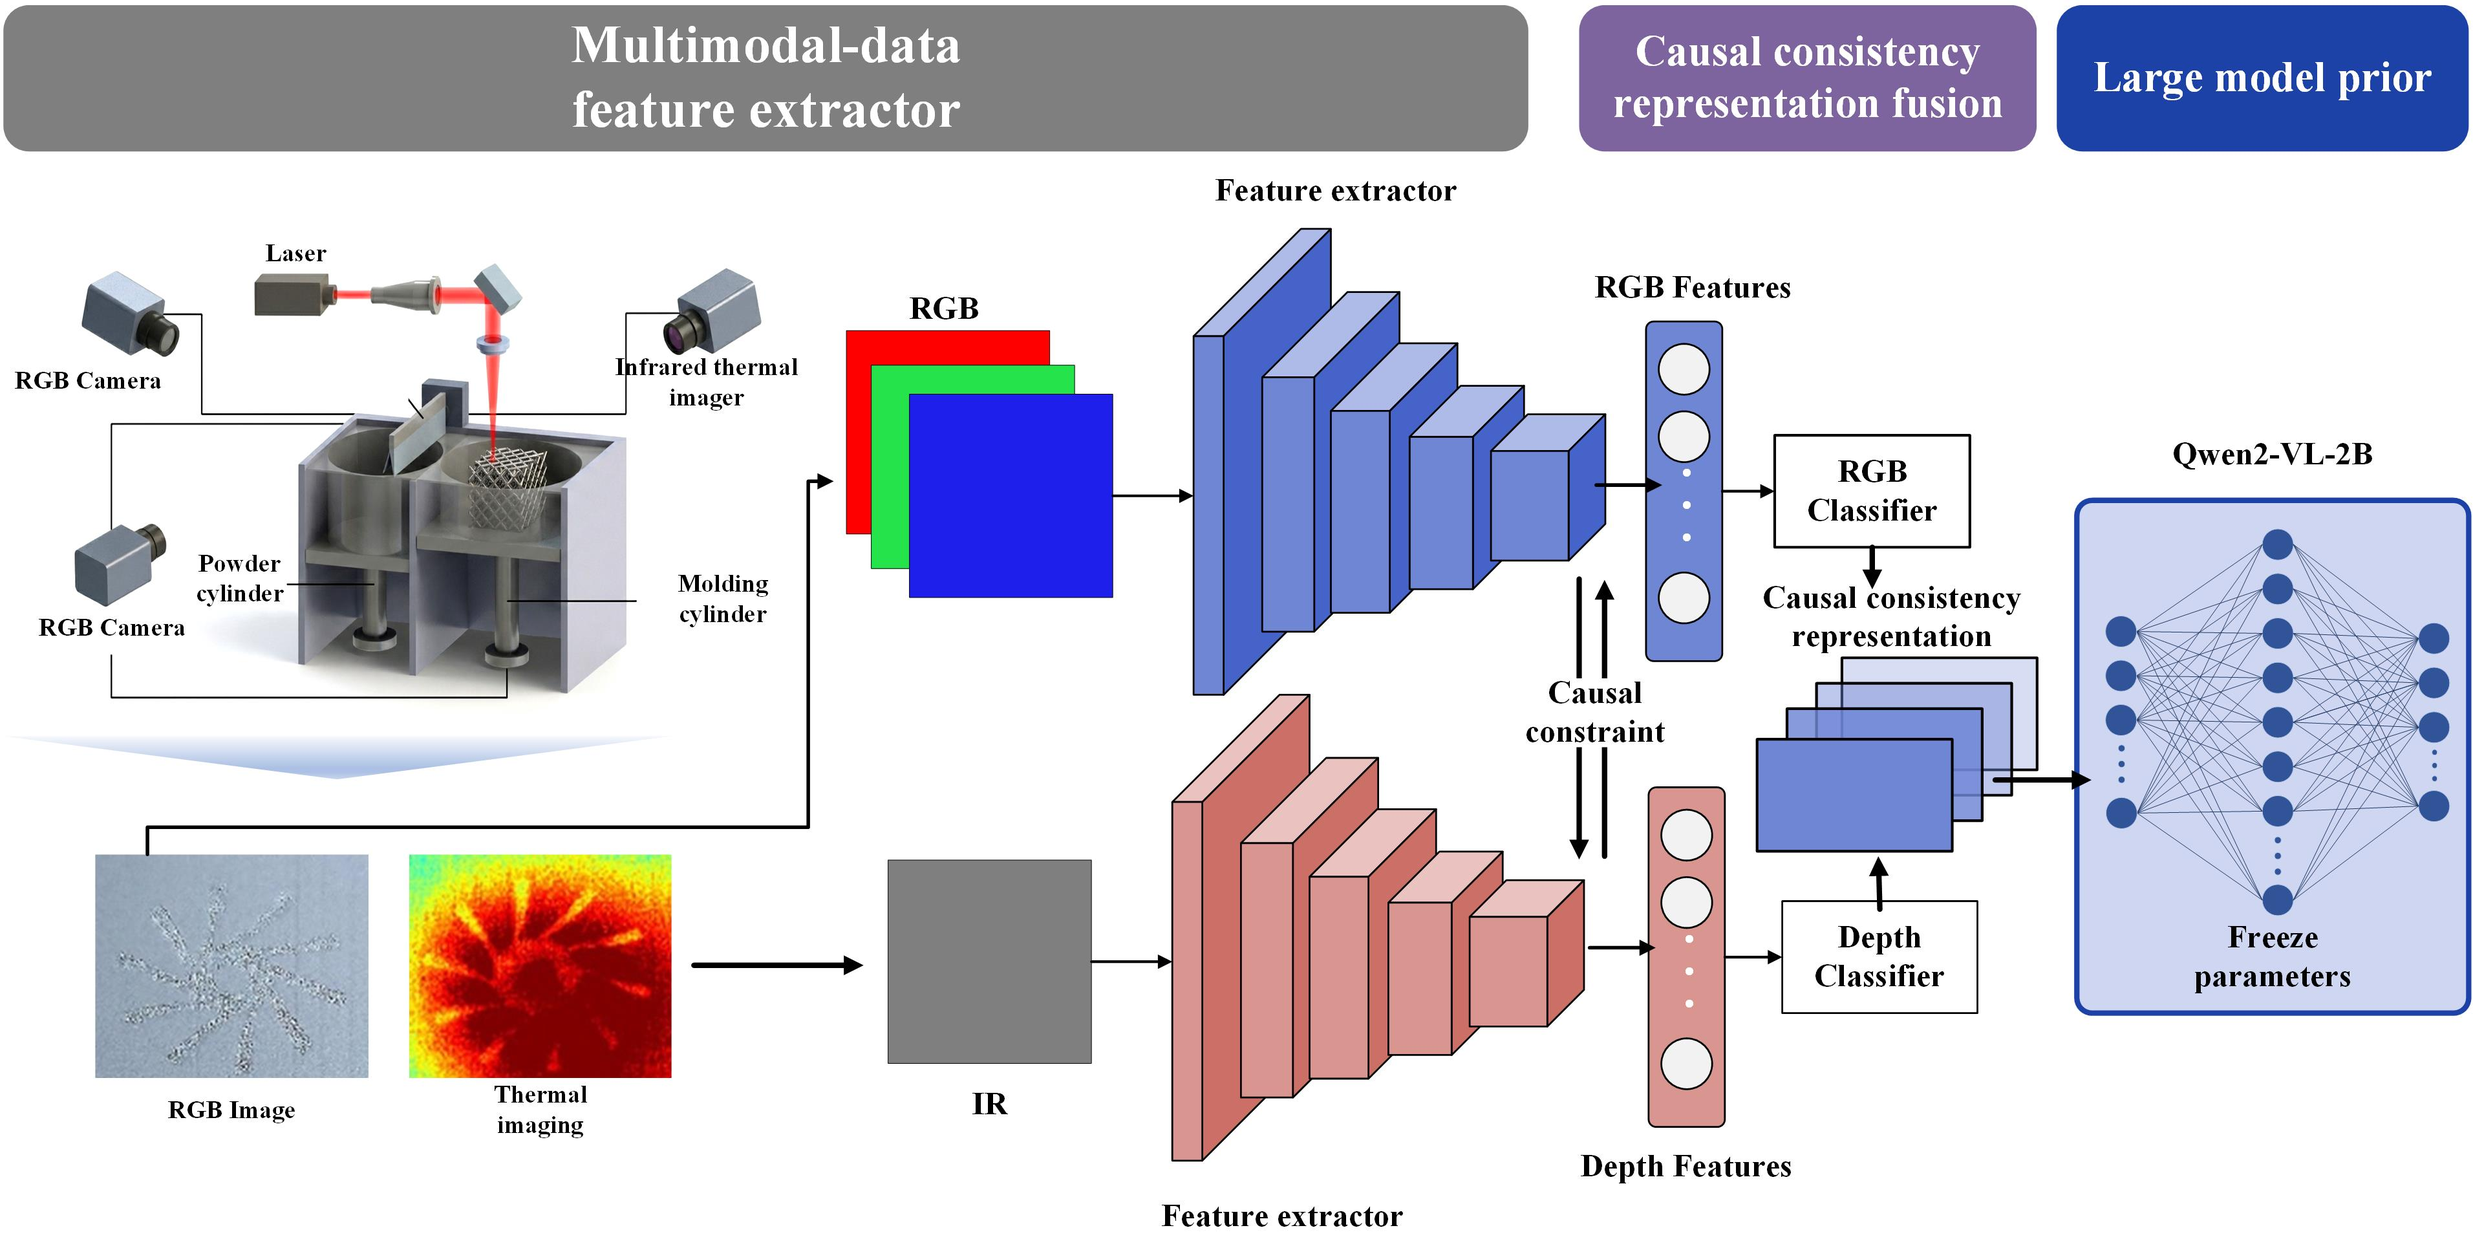
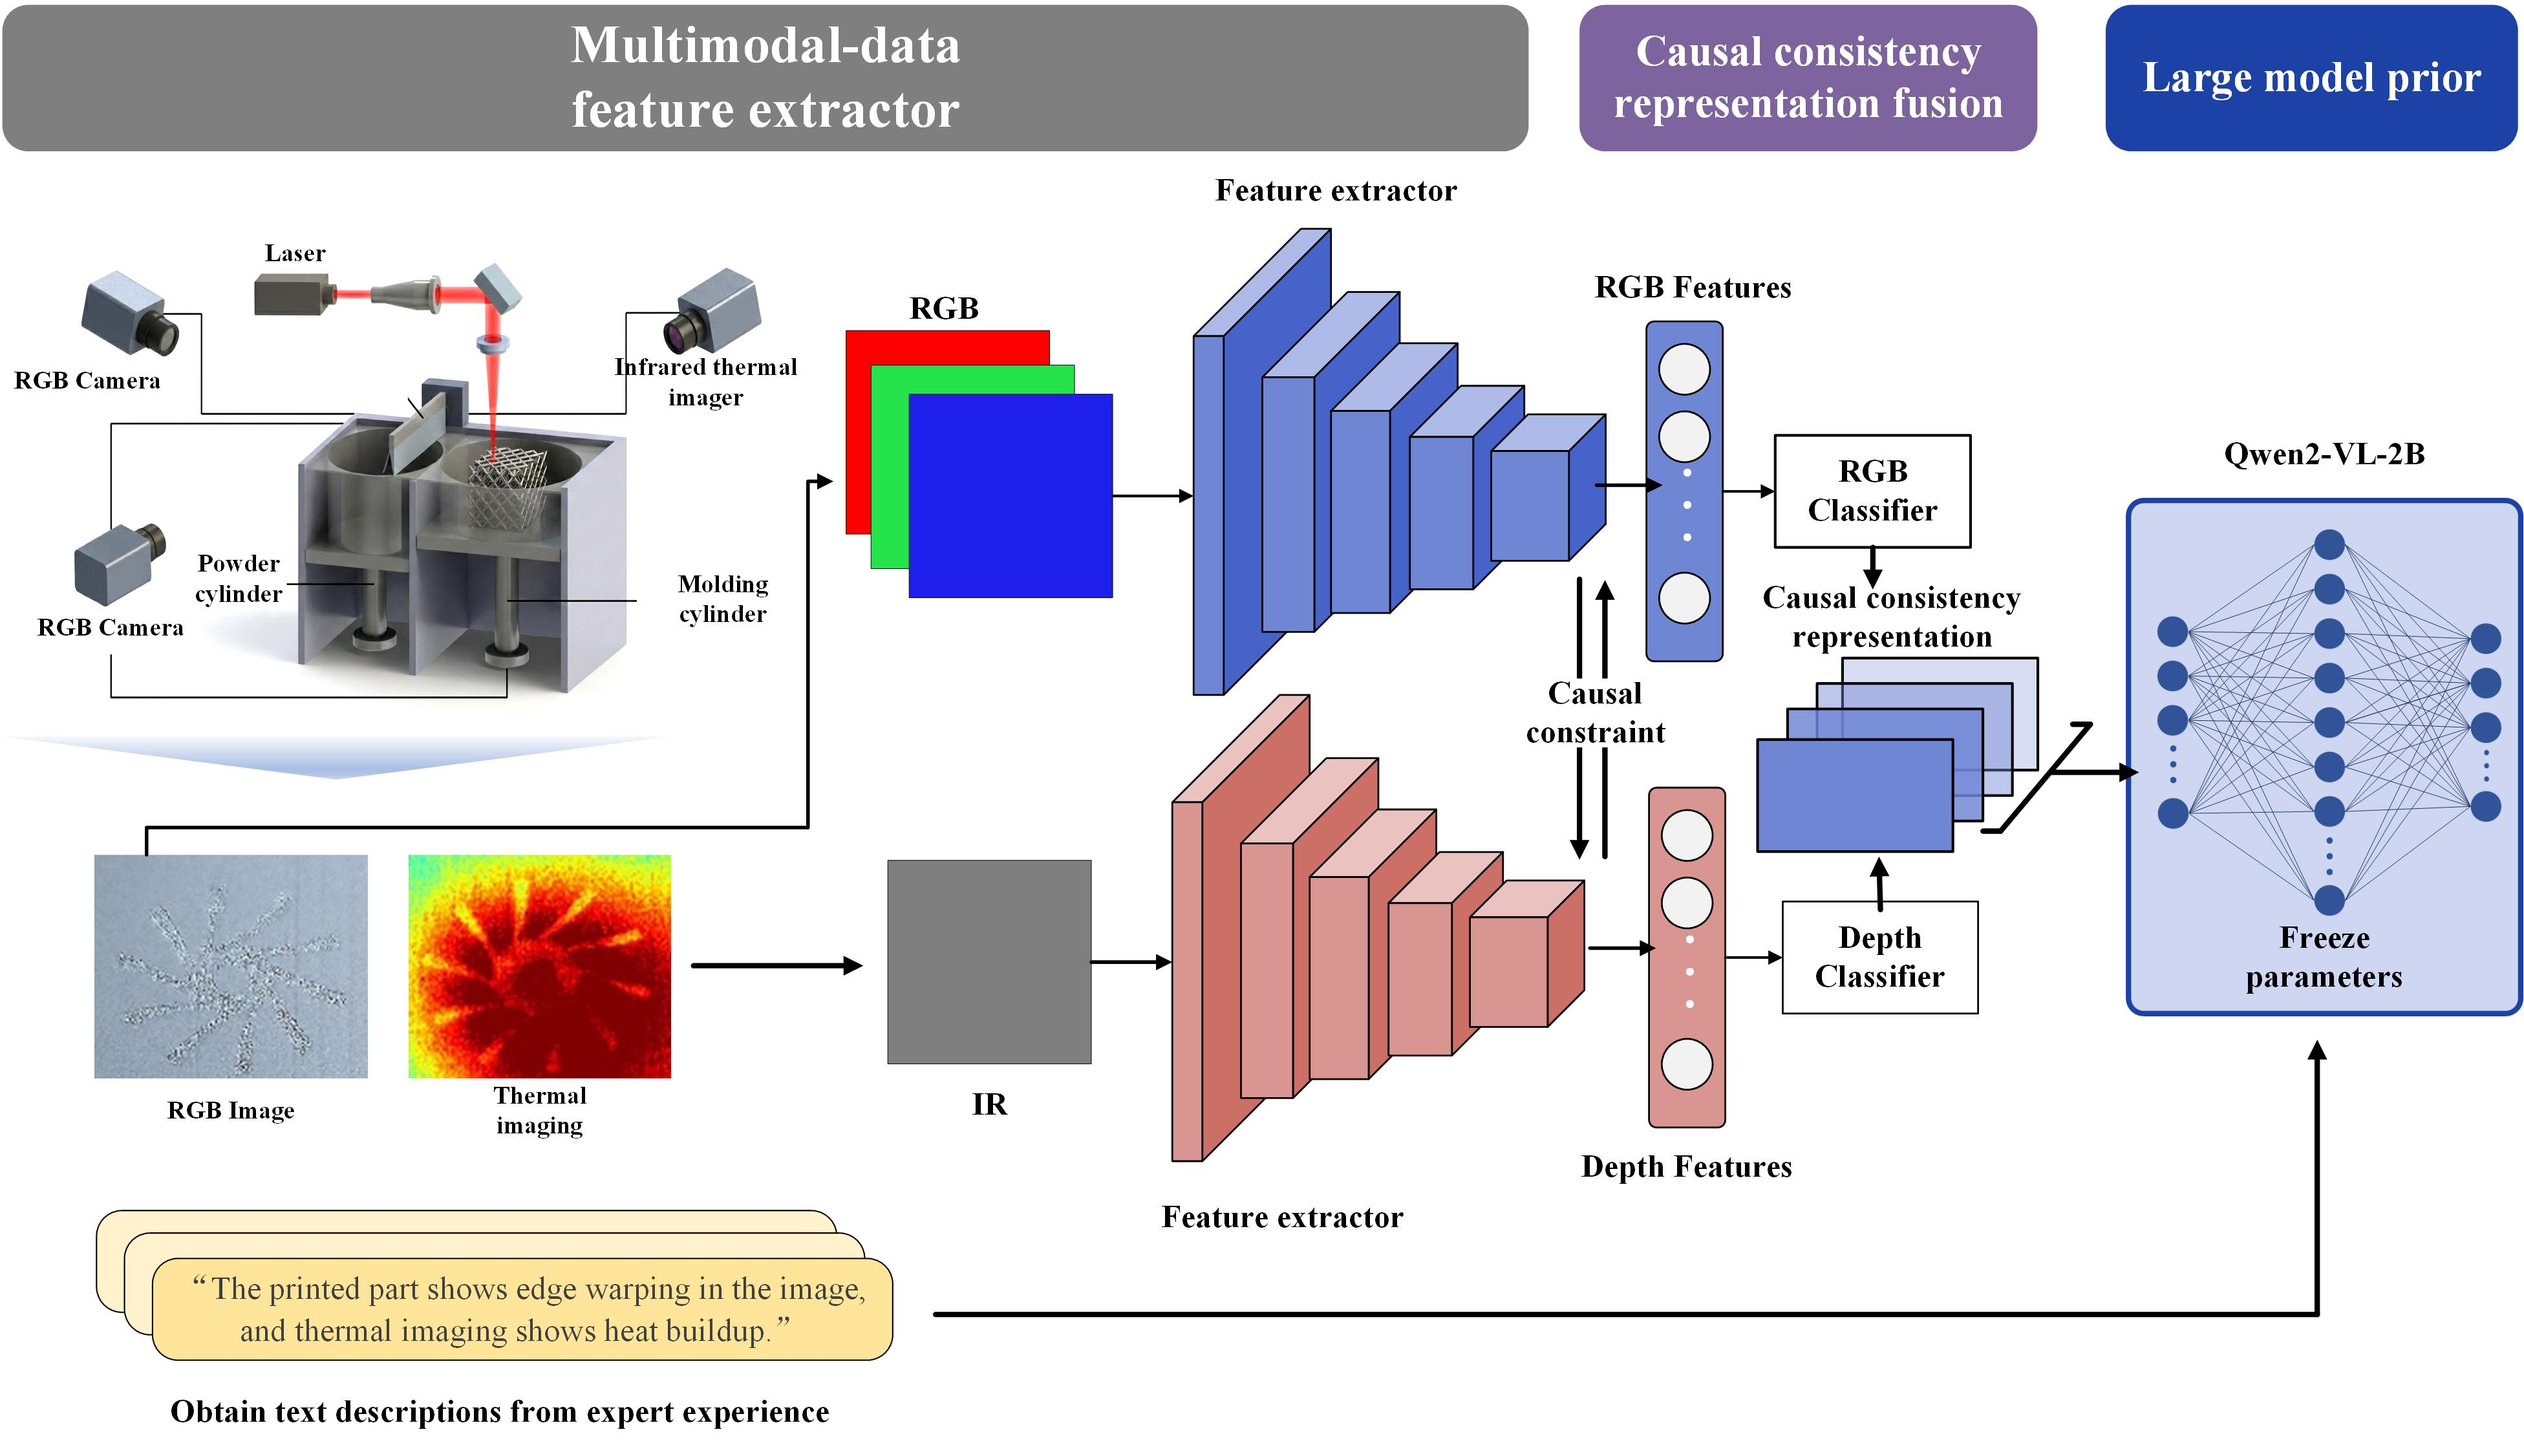
修正图像

diff --git a/IEEE-Transactions-LaTeX2e-templates-and-instructions/Casual-Qwen_Paper_CN.tex b/IEEE-Transactions-LaTeX2e-templates-and-instructions/Casual-Qwen_Paper_CN.tex
@@ -1,12 +1,12 @@
-\documentclass[lettersize,journal]{IEEEtran}
-\usepackage{silence}
-\WarningFilter{latex}{Font shape}
+\RequirePackage{silence}
 \WarningFilter{latexfont}{Font shape}
+\WarningFilter{latexfont}{Some font shapes were not available}
 \WarningFilter{fontspec}{Font}
-\usepackage[UTF8,fontset=fandol]{ctex}
+\WarningFilter{latex}{Text page}
+\documentclass[journal]{IEEEtran}
+\usepackage[UTF8,fontset=windows]{ctex}
 \usepackage{amsmath,amssymb}
 \usepackage{newtxmath}
-\usepackage{newtxtext}
 \usepackage{algorithmic}
 \usepackage{booktabs}
 \usepackage{array}
@@ -17,6 +17,12 @@
 \usepackage{verbatim}
 \usepackage{graphicx}
 \usepackage{cite}
+\setmainfont{Times New Roman}
+\setsansfont{Arial}
+\setmonofont{Courier New}
+\hbadness=10000
+\vbadness=10000
+\vfuzz=20pt
 \hyphenation{op-tical net-works semi-conduc-tor IEEE-Xplore}
 
 \newcommand{\sg}{\operatorname{sg}}
@@ -372,6 +378,7 @@ QwenVisFusion Last2 FT & 解冻最后两个视觉 block & 0.7850 $\pm$ 0.0378 & 
 \caption{\texttt{data2 transfer\_test} 三分类最佳迁移结果}
 \label{tab:data2_transfer_cn}
 \centering
+\resizebox{\columnwidth}{!}{
 \begin{tabular}{|l|c|c|}
 \hline
 家族 / 最佳模型 & Balanced Accuracy & Macro-F1 \\
@@ -383,6 +390,7 @@ Classic / triple-view late fusion & 0.4973 $\pm$ 0.0954 & 0.4236 $\pm$ 0.1110 \\
 QwenVisFusion / \texttt{rgb\_dual} + 因果稳定约束 & \textbf{0.6359 $\pm$ 0.0158} & \textbf{0.6067 $\pm$ 0.0351} \\
 \hline
 \end{tabular}
+}
 \end{table}
 
 迁移结果也进一步补全了本文的多模态叙事。红外信息在增材制造监测中依然具有物理意义和统计价值 \cite{ref_lpbf_sensing_review,ref_intelligent_defect_pbf}。当前 Qwen 最优配置选择双 RGB，主要反映的是现有融合结构和样本规模的约束，而不是 IR 在缺陷识别中没有作用。
